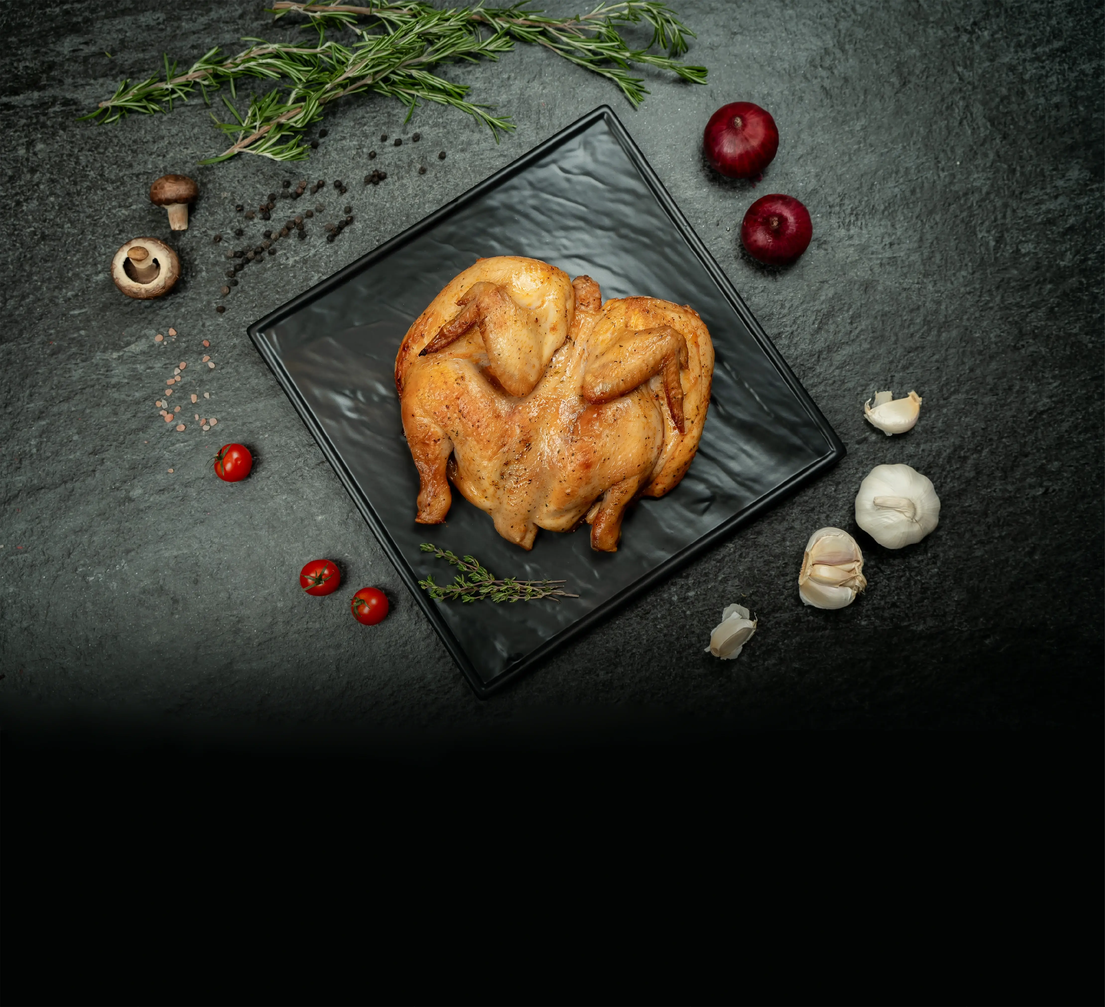
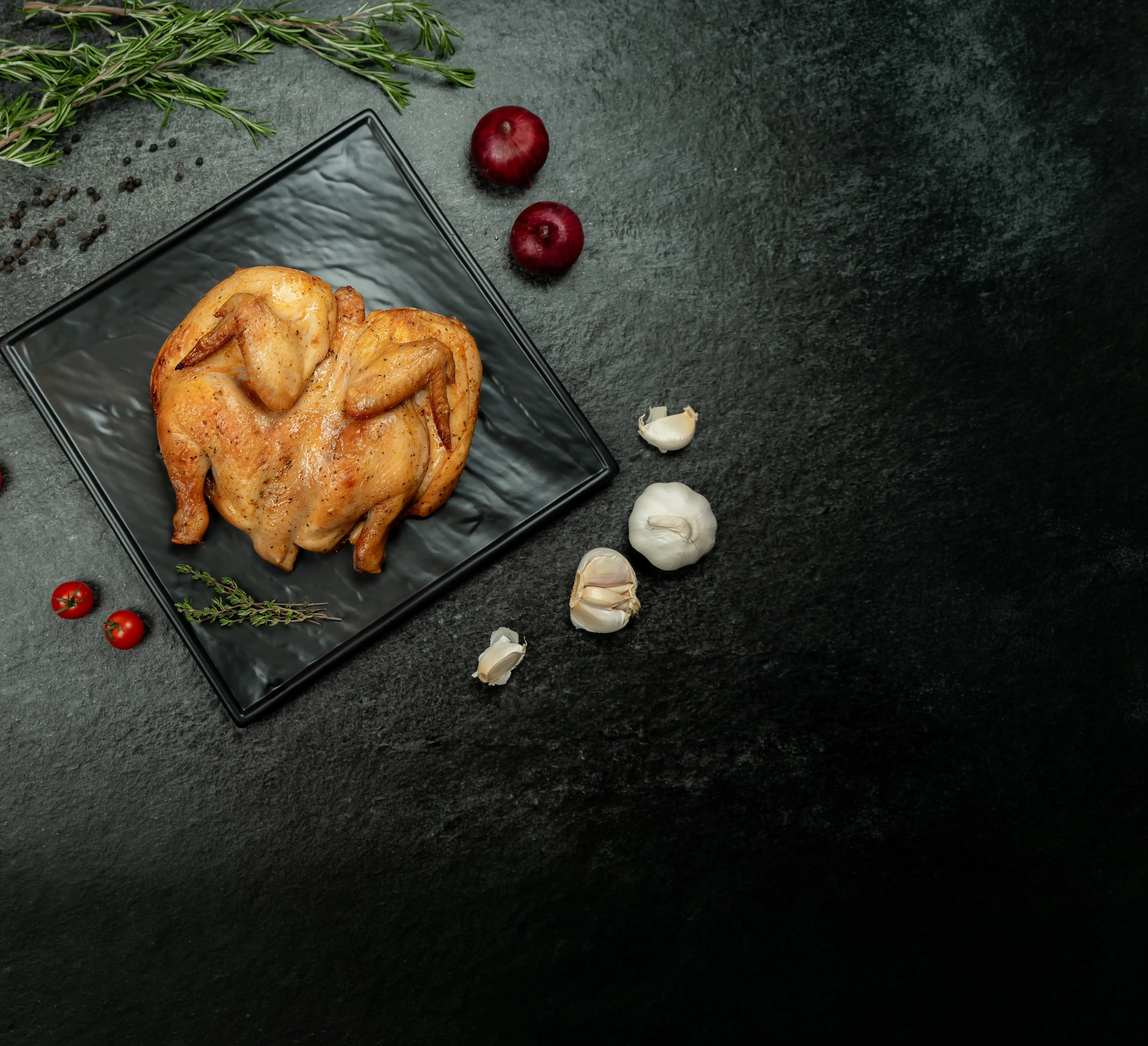
updated login&register bg img

diff --git a/pages/login-register-page.html b/pages/login-register-page.html
@@ -274,7 +274,7 @@
 
     <!-- Content -->
 
-    <div class="kse-login" style="background-image: url('../assets/images/login&register_bg.png');">
+    <div class="kse-login" style="background-image: url('../assets/images/login&register_bg.webp');">
 
         <div class="content-wrapper">
             <div class="kse-login__wrapper">
